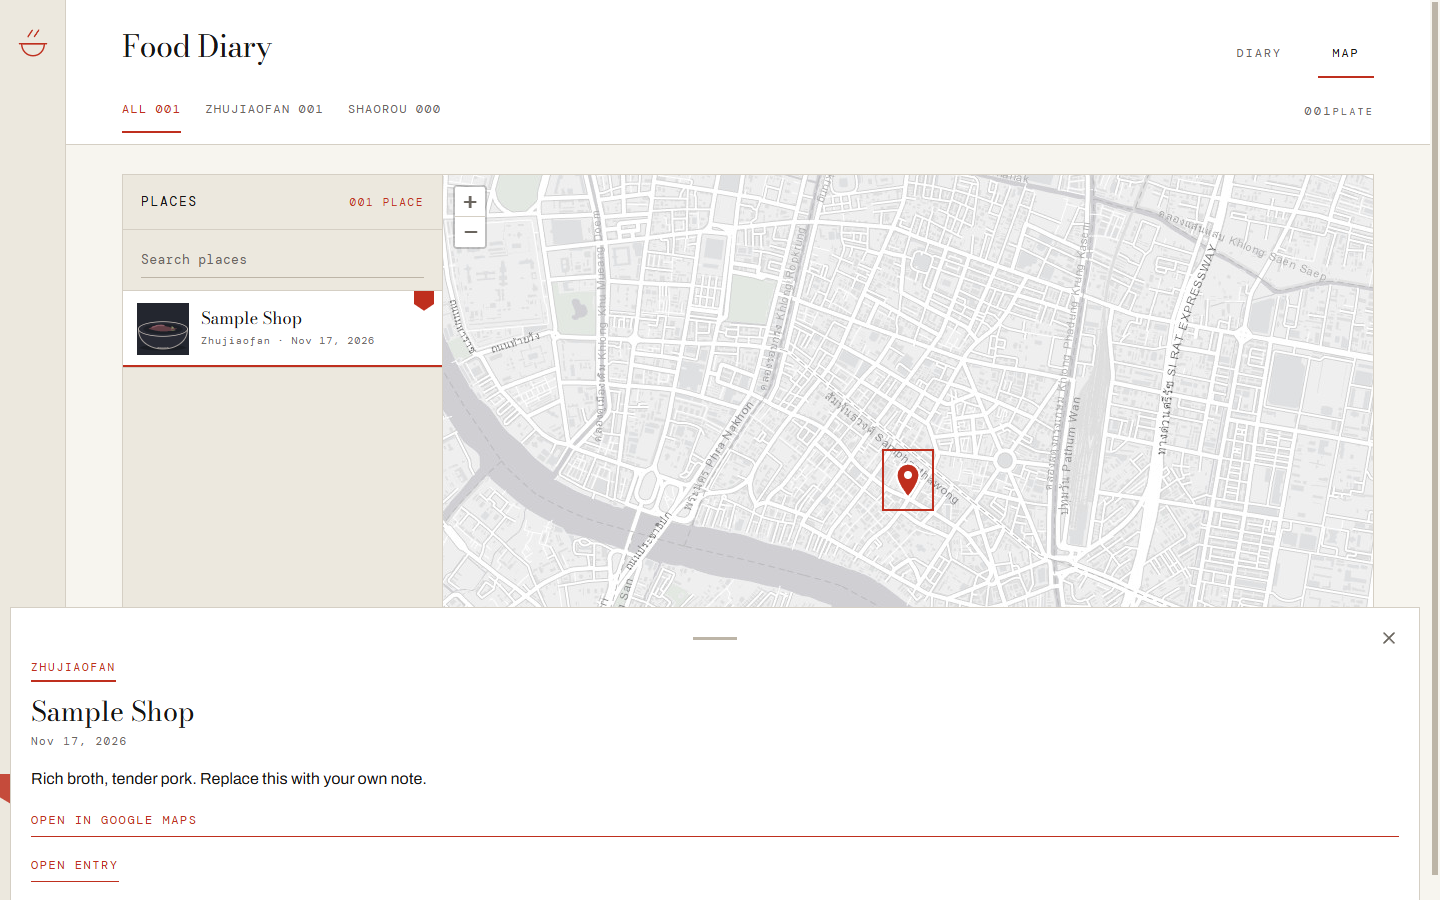
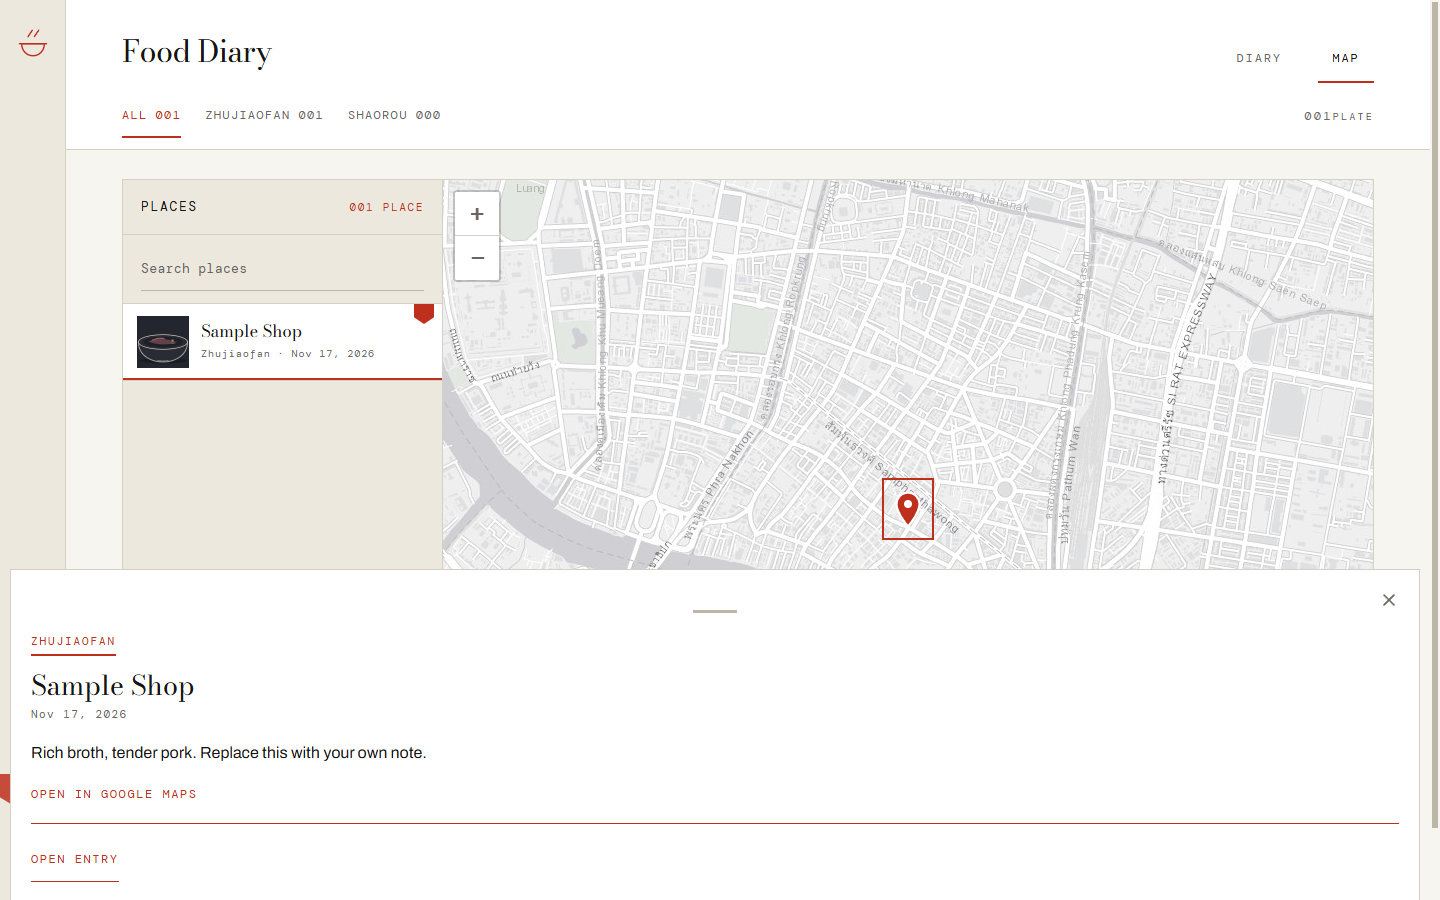
Improve diary UX, photo states, and responsive behavior

diff --git a/styles.css b/styles.css
@@ -58,7 +58,7 @@ input{caret-color:var(--accent)}
 .page{max-width:1560px;margin:0 auto}
 .masthead{padding:30px var(--pad) 0;border-bottom:1px solid var(--rule);background:var(--paper)}
 .masthead-row{display:flex;align-items:baseline;justify-content:space-between;gap:24px}
-.wordmark{font-family:var(--display);font-size:1.9rem;letter-spacing:-.02em;text-decoration:none;line-height:1.1}
+.wordmark{font-family:var(--display);font-size:1.9rem;letter-spacing:-.02em;text-decoration:none;line-height:1.1;display:inline-flex;align-items:center;min-height:44px}
 .wordmark:hover{color:var(--accent)}
 .page-tabs{display:flex;gap:30px}
 .tab{appearance:none;border:0;border-bottom:2px solid transparent;background:none;font-family:var(--label);font-size:.75rem;letter-spacing:.16em;text-transform:uppercase;color:var(--secondary);min-height:48px;min-width:56px;padding:10px 6px;cursor:pointer}
@@ -75,7 +75,11 @@ input{caret-color:var(--accent)}
 
 /* shared */
 .content{padding:clamp(24px,2vw,32px) var(--pad) 100px}
-.ink-link{appearance:none;background:none;border:0;border-bottom:1px solid var(--accent);padding:6px 0;font-family:var(--label);font-size:.74rem;letter-spacing:.14em;text-transform:uppercase;color:var(--accent);text-decoration:none;cursor:pointer;line-height:1.5}
+.diary-tools{display:flex;align-items:center;justify-content:space-between;gap:18px;flex-wrap:wrap;border-bottom:1px solid var(--rule);padding-bottom:4px;margin-bottom:8px}
+.diary-search{width:min(320px,100%)}
+.diary-result{font-family:var(--label);font-size:.66rem;letter-spacing:.14em;text-transform:uppercase;color:var(--secondary);font-variant-numeric:tabular-nums}
+.diary-result:empty{display:none}
+.ink-link{appearance:none;background:none;border:0;border-bottom:1px solid var(--accent);padding:6px 0;font-family:var(--label);font-size:.74rem;letter-spacing:.14em;text-transform:uppercase;color:var(--accent);text-decoration:none;cursor:pointer;line-height:1.5;display:inline-flex;align-items:center;min-height:44px}
 .ink-link:hover{color:var(--accent-deep);border-bottom-color:var(--accent-deep)}
 .dish-stamp{display:inline-block;border-bottom:2px solid var(--accent);color:var(--accent);font-family:var(--label);font-size:.7rem;letter-spacing:.16em;text-transform:uppercase;padding-bottom:3px;white-space:nowrap}
 .dish-stamp--crisp{border-bottom-color:var(--ink);color:var(--ink)}
@@ -87,8 +91,11 @@ input{caret-color:var(--accent)}
 /* featured print */
 .feature{display:grid;grid-template-columns:1.05fr .95fr;gap:clamp(32px,4vw,64px);align-items:start;animation:settle .5s cubic-bezier(.2,.8,.2,1) both}
 .plate{display:block;background:var(--paper);padding:14px;position:relative;border:1px solid var(--rule);text-decoration:none}
-.plate-photo{width:100%;height:clamp(300px,34vw,430px);object-fit:cover;background:var(--photo-well)}
+.plate-photo{width:100%;height:clamp(300px,30vw,390px);object-fit:cover;background:var(--photo-well)}
 .plate-label{position:absolute;top:-10px;left:-1px;background:var(--accent);color:var(--paper);font-family:var(--label);font-size:.62rem;letter-spacing:.16em;padding:5px 9px}
+.plate.is-missing .plate-photo{visibility:hidden}
+.plate.is-missing .plate-label{max-width:calc(100% - 16px);line-height:1.4;white-space:normal}
+.detail-plate.is-missing .detail-photo{visibility:hidden;height:260px}
 .feature-body{padding-top:4px}
 .shop-name{font-family:var(--display);font-size:clamp(2.6rem,5vw,4.4rem);font-weight:400;line-height:1.05;letter-spacing:-.03em;margin:22px 0 12px;text-wrap:balance}
 .shop-name a{text-decoration:none}
@@ -105,7 +112,7 @@ input{caret-color:var(--accent)}
 .thumb-mat img{width:100%;height:86px;object-fit:cover;background:var(--photo-well)}
 .thumb-meta{display:flex;justify-content:space-between;gap:8px;font-family:var(--label);font-size:.62rem;letter-spacing:.08em;color:var(--secondary);padding-top:7px}
 .thumb-meta b{font-weight:400;color:var(--accent);font-variant-numeric:tabular-nums}
-.thumb-meta span{overflow:hidden;text-overflow:ellipsis;white-space:nowrap}
+.thumb-meta span{min-width:0;overflow:hidden;text-overflow:ellipsis;white-space:nowrap}
 .print-thumb.is-current .thumb-mat{border-bottom:2px solid var(--accent)}
 .print-thumb:hover .thumb-mat{border-color:var(--accent)}
 .tape-flag{position:absolute;top:-6px;right:8px;width:20px;height:26px;background:var(--accent);clip-path:polygon(0 0,100% 0,100% 74%,50% 100%,0 74%)}
@@ -116,13 +123,14 @@ input{caret-color:var(--accent)}
 .empty-state p{font-size:1.2rem;color:var(--secondary)}
 
 /* map */
-.map-ledger{display:grid;grid-template-columns:320px minmax(0,1fr);border:1px solid var(--rule);height:clamp(500px,calc(100vh - 250px),900px)}
+.map-ledger{display:grid;grid-template-columns:320px minmax(0,1fr);border:1px solid var(--rule);height:clamp(500px,calc(100vh - var(--map-offset,250px)),900px)}
 .ledger-list{display:flex;flex-direction:column;min-height:0;background:var(--surface);border-right:1px solid var(--rule)}
-.list-toggle{display:flex;align-items:baseline;justify-content:space-between;gap:12px;appearance:none;border:0;border-bottom:1px solid var(--rule);background:none;text-align:left;cursor:pointer;padding:16px 18px;font-family:var(--label);font-size:.8rem;letter-spacing:.14em;text-transform:uppercase;color:var(--ink)}
+.list-toggle{display:flex;align-items:baseline;justify-content:space-between;gap:12px;appearance:none;border:0;border-bottom:1px solid var(--rule);background:none;text-align:left;cursor:default;padding:16px 18px;font-family:var(--label);font-size:.8rem;letter-spacing:.14em;text-transform:uppercase;color:var(--ink)}
+.list-toggle:disabled{opacity:1}
 .map-count{font-family:var(--label);font-size:.68rem;letter-spacing:.16em;color:var(--accent);font-variant-numeric:tabular-nums}
 .list-body{display:flex;flex-direction:column;min-height:0;flex:1}
 .search-field{display:block;padding:12px 18px;border-bottom:1px solid var(--rule)}
-.search-field input{width:100%;background:none;border:0;border-bottom:1px solid var(--rule-strong);color:var(--ink);font-family:var(--label);font-size:.8rem;letter-spacing:.04em;padding:9px 0}
+.search-field input{width:100%;min-height:44px;background:none;border:0;border-bottom:1px solid var(--rule-strong);color:var(--ink);font-family:var(--label);font-size:.8rem;letter-spacing:.04em;padding:9px 0}
 .search-field input::placeholder{color:var(--secondary)}
 .search-field input:focus{border-bottom-color:var(--accent);outline:none}
 .shop-items{overflow-y:auto;min-height:0;flex:1}
@@ -134,6 +142,7 @@ input{caret-color:var(--accent)}
 .place-text{min-width:0}
 .place-text strong{display:block;font-family:var(--display);font-size:1.05rem;font-weight:400;line-height:1.25;color:var(--ink)}
 .place-text small{display:block;font-family:var(--label);font-size:.64rem;letter-spacing:.08em;color:var(--secondary);margin-top:3px}
+.place-note{margin-top:5px!important;color:var(--accent)!important}
 .map-area{position:relative;min-width:0;min-height:0;background:var(--surface)}
 #map{width:100%;height:100%;background:var(--surface)}
 .map-error{position:absolute;z-index:500;top:0;left:0;right:0;margin:0;padding:10px 14px;background:var(--error);color:var(--ink);border-bottom:1px solid var(--accent);font-family:var(--label);font-size:.72rem;letter-spacing:.04em}
@@ -152,12 +161,13 @@ input{caret-color:var(--accent)}
 .leaflet-popup-content .ink-link{display:block;margin-top:10px}
 .leaflet-container a.leaflet-popup-close-button{color:var(--secondary)}
 .leaflet-control-attribution,.leaflet-control-zoom a{background:var(--paper)!important;color:var(--secondary)!important;border-color:var(--rule)!important}
+.leaflet-container .leaflet-control-zoom a{width:44px;height:44px;line-height:44px;text-align:center}
 .leaflet-control-attribution a{color:var(--accent)!important}
 .leaflet-control-attribution{font-family:var(--label);font-size:.6rem}
 
 /* entry */
 .detail{max-width:960px;margin:0 auto}
-.back-link{display:inline-block;font-family:var(--label);font-size:.72rem;letter-spacing:.14em;text-transform:uppercase;color:var(--secondary);text-decoration:none;margin-bottom:30px}
+.back-link{display:inline-flex;align-items:center;min-height:44px;font-family:var(--label);font-size:.72rem;letter-spacing:.14em;text-transform:uppercase;color:var(--secondary);text-decoration:none;margin-bottom:18px}
 .back-link:hover{color:var(--accent)}
 .detail-title{font-family:var(--display);font-size:clamp(2.6rem,5vw,4.4rem);font-weight:400;line-height:1.05;letter-spacing:-.03em;margin:22px 0 10px;text-wrap:balance}
 .detail-meta{font-family:var(--label);font-size:.72rem;letter-spacing:.14em;text-transform:uppercase;color:var(--secondary);display:flex;gap:18px;flex-wrap:wrap}
@@ -176,7 +186,7 @@ input{caret-color:var(--accent)}
 .sheet{position:fixed;left:0;right:0;bottom:0;z-index:1200;visibility:hidden;transform:translateY(102%);transition:transform .3s cubic-bezier(.2,.8,.2,1),visibility 0s linear .3s}
 .sheet[data-open="true"]{visibility:visible;transform:translateY(0);transition:transform .3s cubic-bezier(.2,.8,.2,1),visibility 0s}
 .sheet-inner{position:relative;margin:0 10px;background:var(--paper);color:var(--ink);border:1px solid var(--rule);border-bottom:0;padding:20px 20px calc(18px + env(safe-area-inset-bottom));max-height:74vh;overflow-y:auto}
-.sheet-grip{display:block;width:52px;height:20px;margin:0 auto 4px;appearance:none;border:0;background:none;cursor:pointer;padding:0}
+.sheet-grip{display:grid;place-items:center;width:52px;height:44px;margin:0 auto -8px;appearance:none;border:0;background:none;cursor:pointer;padding:0}
 .sheet-grip span{display:block;width:44px;height:3px;margin:auto;background:var(--rule-strong)}
 .sheet-close{position:absolute;top:8px;right:8px;width:44px;height:44px;display:grid;place-items:center;appearance:none;border:0;background:none;color:var(--secondary);cursor:pointer}
 .sheet-shop{font-family:var(--display);font-size:1.7rem;line-height:1.15;font-weight:400;margin:14px 0 4px;padding-right:44px}
@@ -222,18 +232,19 @@ input{caret-color:var(--accent)}
   .feature-body .inscription{margin-top:20px}
   .print-strip{margin-top:40px}
   .print-thumb{flex-basis:140px}
-  .map-ledger{grid-template-columns:1fr;grid-template-rows:auto minmax(0,1fr);height:calc(100svh - 190px);min-height:440px}
+  .map-ledger{grid-template-columns:1fr;grid-template-rows:auto minmax(0,1fr);height:calc(100svh - var(--map-offset,190px));min-height:440px}
   .ledger-list{border-right:0;border-bottom:1px solid var(--rule)}
-  .list-toggle{min-height:48px;padding:12px 14px}
+  .list-toggle{min-height:48px;padding:12px 14px;cursor:pointer}
   .list-body{display:none}
   .ledger-list[data-expanded="true"] .list-body{display:flex;max-height:190px}
   .shop-items{display:flex;overflow-x:auto;overflow-y:hidden;flex:0 0 auto}
   .place-row{width:210px;flex:none;border-bottom:0;border-right:1px solid var(--rule);min-height:64px}
   .place-thumb,.place-blank{width:44px;height:44px}
   .search-field{padding:8px 14px}
+  .leaflet-control-zoom{display:none}
   .leaflet-control-attribution{font-size:9px}
   .detail-title{font-size:2.3rem}
   .detail-note{font-size:1.05rem}
-  .detail-photo{max-height:none;aspect-ratio:3/2;object-fit:cover}
+  .detail-photo{max-height:none;height:auto;aspect-ratio:3/2;object-fit:contain}
   .lightbox{padding:16px}
 }

diff --git a/app.js b/app.js
@@ -4,6 +4,7 @@ const LAST_KEY = "food-diary-last";
 
 let activeFilter = filters[0];
 let searchTerm = "";
+let diaryTerm = "";
 let map = null;
 let markers = new Map();
 let sheetIndex = -1;
@@ -26,6 +27,8 @@ const mapCount = $("map-count");
 const statusEl = $("status");
 const sheet = $("sheet");
 const searchInput = $("shop-search");
+const diarySearch = $("diary-search");
+const diaryResult = $("diary-result");
 const listToggle = $("list-toggle");
 const ledgerList = document.querySelector(".ledger-list");
 const lightbox = $("lightbox");
@@ -137,6 +140,12 @@ function searchMatches(entry) {
   return haystack.indexOf(searchTerm) !== -1;
 }
 
+function diaryMatches(entry) {
+  if (!diaryTerm) return true;
+  const haystack = [entry.shop, entry.type, entry.note].join(" ").toLowerCase();
+  return haystack.indexOf(diaryTerm) !== -1;
+}
+
 function emptyState(message, actionLabel, onAction) {
   const box = document.createElement("div");
   box.className = "empty-state";
@@ -179,8 +188,9 @@ function makeFeatured(item) {
     label.className = "plate-label";
     label.textContent = "PLATE " + pad(index + 1);
     img.onerror = () => {
-      img.hidden = true;
-      label.textContent = "PLATE " + pad(index + 1) + " / PHOTOGRAPH UNAVAILABLE";
+      media.classList.add("is-missing");
+      img.style.visibility = "hidden";
+      label.textContent = "PLATE " + pad(index + 1) + " / PHOTO UNAVAILABLE";
     };
     media.append(img, label);
     el.appendChild(media);
@@ -255,21 +265,26 @@ function makeThumb(item, isCurrent) {
 }
 
 function renderDiary() {
-  const list = visibleEntries();
+  const list = visibleEntries().filter(({ entry }) => diaryMatches(entry));
+  const shown = list.length;
+  const filtered = shown !== entries.length;
+
   ledgerCount.innerHTML = "";
   const no = document.createElement("span");
   no.textContent = pad(entries.length);
   const unit = document.createElement("small");
   unit.textContent = entries.length === 1 ? "PLATE" : "PLATES";
   ledgerCount.append(no, unit);
+  ledgerCount.setAttribute("aria-label", entries.length + (entries.length === 1 ? " plate recorded" : " plates recorded"));
+  diaryResult.textContent = filtered ? "SHOWING " + pad(shown) + " / " + pad(entries.length) : "";
 
   featuredBox.replaceChildren();
   stripBox.replaceChildren();
   if (!list.length) {
     featuredBox.appendChild(emptyState(
-      entries.length ? "No " + activeFilter + " plates yet." : "The ledger is empty.",
-      entries.length ? "Show all plates" : null,
-      () => setFilter(filters[0])
+      filtered ? "No plates match this search or filter." : "The ledger is empty.",
+      filtered ? "Show all plates" : null,
+      () => { diaryTerm = ""; diarySearch.value = ""; setFilter(filters[0]); }
     ));
     return;
   }
@@ -387,18 +402,23 @@ function renderEntry(id) {
     main.src = photos[0];
     main.alt = entry.shop ? "Photograph from " + entry.shop : "";
     main.decoding = "async";
-    main.onerror = () => { main.hidden = true; };
     const cap = document.createElement("figcaption");
     const label = document.createElement("span");
     label.className = "plate-label";
     label.style.position = "static";
-    label.textContent = "PLATE " + pad(index + 1) + " / " + pad(photos.length)
-      + (main.hidden ? " / PHOTOGRAPH UNAVAILABLE" : "");
+    const labelFor = (i) => "PLATE " + pad(index + 1) + " / PHOTO " + pad(i + 1) + " OF " + pad(photos.length);
+    label.textContent = labelFor(0);
+    main.onerror = () => {
+      figure.classList.add("is-missing");
+      main.style.visibility = "hidden";
+      label.textContent = "PLATE " + pad(index + 1) + " / PHOTO UNAVAILABLE";
+      zoom.hidden = true;
+    };
     const zoom = document.createElement("button");
     zoom.className = "ink-link";
     zoom.type = "button";
     zoom.textContent = "View at 1:1";
-    zoom.addEventListener("click", () => openLightbox(photos[0], main.alt, zoom));
+    zoom.addEventListener("click", () => openLightbox(main.src, main.alt, zoom));
     cap.append(label, zoom);
     figure.append(main, cap);
     wrap.appendChild(figure);
@@ -416,10 +436,15 @@ function renderEntry(id) {
         img.src = src;
         img.alt = "";
         img.loading = "lazy";
+        img.onerror = () => { img.hidden = true; };
         btn.appendChild(img);
         btn.addEventListener("click", () => {
           main.src = src;
           main.alt = (entry.shop || "Entry") + ", photo " + (i + 1);
+          main.style.visibility = "visible";
+          figure.classList.remove("is-missing");
+          label.textContent = labelFor(i);
+          zoom.hidden = false;
           thumbs.querySelectorAll(".thumb-btn").forEach((b) => b.setAttribute("aria-pressed", "false"));
           btn.setAttribute("aria-pressed", "true");
         });
@@ -499,6 +524,12 @@ function makePlaceRow(item) {
   const sub = document.createElement("small");
   sub.textContent = (entry.type || "") + " · " + formatDate(entry.date);
   text.append(name, sub);
+  if (!coordsFromLink(entry.maps)) {
+    const note = document.createElement("small");
+    note.className = "place-note";
+    note.textContent = "No pin · opens the entry";
+    text.appendChild(note);
+  }
   btn.appendChild(text);
   if (id === getLast()) {
     const flag = document.createElement("span");
@@ -553,7 +584,11 @@ function activateShop(id, trigger) {
 
   const pos = coordsFromLink(entry.maps);
   if (pos && map) map.panTo(pos, { animate: !prefersReducedMotion() });
-  if (!marker) return;
+  if (!marker || !pos) {
+    announce(entry.shop + " has no map pin. Opening the entry.");
+    location.hash = "#/e/" + encodeURIComponent(id);
+    return;
+  }
 
   if (isPhone()) {
     openSheet(index, trigger || marker.getElement());
@@ -794,10 +829,25 @@ function parseRoute() {
   return { view: "diary" };
 }
 
+function syncLayout() {
+  const masthead = document.querySelector(".masthead");
+  const content = document.querySelector(".content");
+  if (masthead && content) {
+    const top = parseFloat(getComputedStyle(content).paddingTop) || 0;
+    const offset = Math.round(masthead.offsetHeight + top + 24);
+    document.documentElement.style.setProperty("--map-offset", offset + "px");
+  }
+  listToggle.disabled = !isPhone();
+  listToggle.setAttribute("aria-expanded", String(
+    isPhone() ? ledgerList.dataset.expanded === "true" : true
+  ));
+}
+
 function renderRoute() {
   const route = parseRoute();
   closeSheet();
   closeLightbox();
+  syncLayout();
   updateFilters();
   tabButtons.forEach((b) => {
     b.setAttribute("aria-pressed", String(b.dataset.tab === route.view || (route.view === "entry" && b.dataset.tab === "diary")));
@@ -818,7 +868,7 @@ function renderRoute() {
     const last = getLast();
     if (last) {
       const link = stripBox.querySelector('.print-thumb[data-id="' + CSS.escape(last) + '"]');
-      if (link) link.focus({ preventScroll: true });
+      if (link) link.focus();
     }
   }
   window.scrollTo(0, 0);
@@ -829,6 +879,12 @@ searchInput.addEventListener("input", () => {
   renderShopList();
 });
 
+diarySearch.addEventListener("input", () => {
+  diaryTerm = diarySearch.value.trim().toLowerCase();
+  renderDiary();
+  announce(diaryTerm ? "Diary search updated." : "Diary search cleared.");
+});
+
 listToggle.addEventListener("click", () => {
   const open = ledgerList.dataset.expanded !== "true";
   ledgerList.dataset.expanded = String(open);
@@ -836,6 +892,10 @@ listToggle.addEventListener("click", () => {
 });
 
 window.addEventListener("hashchange", renderRoute);
+window.addEventListener("resize", () => {
+  syncLayout();
+  if (map) requestAnimationFrame(() => map.invalidateSize());
+});
 
 /* ---------- boot ---------- */
 

diff --git a/index.html b/index.html
@@ -6,7 +6,7 @@
   <title>Food Diary</title>
   <link rel="icon" href="data:,">
   <link rel="stylesheet" href="https://unpkg.com/leaflet@1.9.4/dist/leaflet.css">
-  <link rel="stylesheet" href="styles.css?v=19">
+  <link rel="stylesheet" href="styles.css?v=26">
 </head>
 <body>
   <a class="skip-link" href="#main">Skip to content</a>
@@ -40,6 +40,13 @@
       <p id="status" class="visually-hidden" role="status" aria-live="polite"></p>
 
       <section id="diary-panel" aria-label="Diary">
+        <div class="diary-tools">
+          <label class="search-field diary-search">
+            <span class="visually-hidden">Search plates</span>
+            <input id="diary-search" type="search" placeholder="Search plates" autocomplete="off">
+          </label>
+          <p id="diary-result" class="diary-result"></p>
+        </div>
         <div id="featured"></div>
         <div id="strip" class="print-strip" aria-label="Prints in this ledger"></div>
       </section>
@@ -102,7 +109,7 @@
   </div>
 
   <script src="https://unpkg.com/leaflet@1.9.4/dist/leaflet.js"></script>
-  <script src="data/entries.js?v=19"></script>
-  <script src="app.js?v=19"></script>
+  <script src="data/entries.js?v=26"></script>
+  <script src="app.js?v=26"></script>
 </body>
 </html>

diff --git a/.impeccable/surfaces/index-html.md b/.impeccable/surfaces/index-html.md
@@ -25,7 +25,7 @@ Answer "where did this person eat, and what was it like" within seconds. Proof: 
 
 THESIS: A white broadsheet with black ink and one red rule. It refuses the dark gallery, the card grid, and the coloured dashboard; the page is set like a serious newspaper and the photograph is the only luxuriance.
 
-OWN-WORLD: Newsprint #f7f5ef ground, #ece8de surface, white photo mount, ink #161514, secondary #6a655e, one vermilion #d23b2a signal, hairline #d5cfc4 rules. Bodoni Moda for display, Archivo for running text, DM Mono for dates, folios and labels. Square corners, no cards, no shadows, one red rule under the active tab. The red appears on controls and marks only, never as a background fill.
+OWN-WORLD: Newsprint #f7f5ef ground, #ece8de surface, white photo mount, ink #161514, secondary #6a655e, one vermilion #bf2f1e signal, hairline #d5cfc4 rules. Bodoni Moda for display, Archivo for running text, DM Mono for dates, folios and labels. Square corners, no cards, no shadows, one red rule under the active tab. The red appears on controls and marks only, never as a background fill.
 
 STORY: The visitor lands on a light page where a single large food photograph dominates the first fold. They read the shop name and the typed note, follow the ruled print strip or a filter to another visit, and open the map to find the place. They leave knowing this is one person's considered record, printed rather than posted.
 

diff --git a/README.md b/README.md
@@ -33,7 +33,7 @@ GitHub Pages updates in about a minute.
 
 ## Look and behaviour
 
-Paper Editorial: a newsprint ground, white photo mounts, black ink and one vermilion rule. Diary is the front door; Map has a searchable list on desktop and a collapsible sheet on phones; an entry opens one large plate with its note. The last entry you opened gets a red tape flag.
+Paper Editorial: a newsprint ground, white photo mounts, black ink and one vermilion rule. Diary is the front door, with its own search field for large archives; Map has a searchable list on desktop and a collapsible sheet on phones; an entry opens one large plate with its note. The last entry you opened gets a red tape flag.
 
 Keyboard works throughout: pins respond to Enter and Space, the sheet closes with Escape and returns focus, and all controls show a red focus ring. Reduced-motion is respected.
 

diff --git a/PRODUCT.md b/PRODUCT.md
@@ -32,7 +32,7 @@ Visitors have no workflow. They open a link, look, and close it.
 
 ## Capabilities and Constraints
 
-- Two views: **Map** (default) and **Diary**, switched by tabs.
+- Two views: **Diary** (default) and **Map**, switched by tabs.
 - Diary filters: `All`, `Zhujiaofan`, `Shaorou`.
 - Map pins distinguish the two dishes by shape and colour, and a summary line gives the shop and per-dish counts.
 - A pin opens a popup with the shop, date, dish, note, and an "Open in diary" action that switches views and lands on that card.
